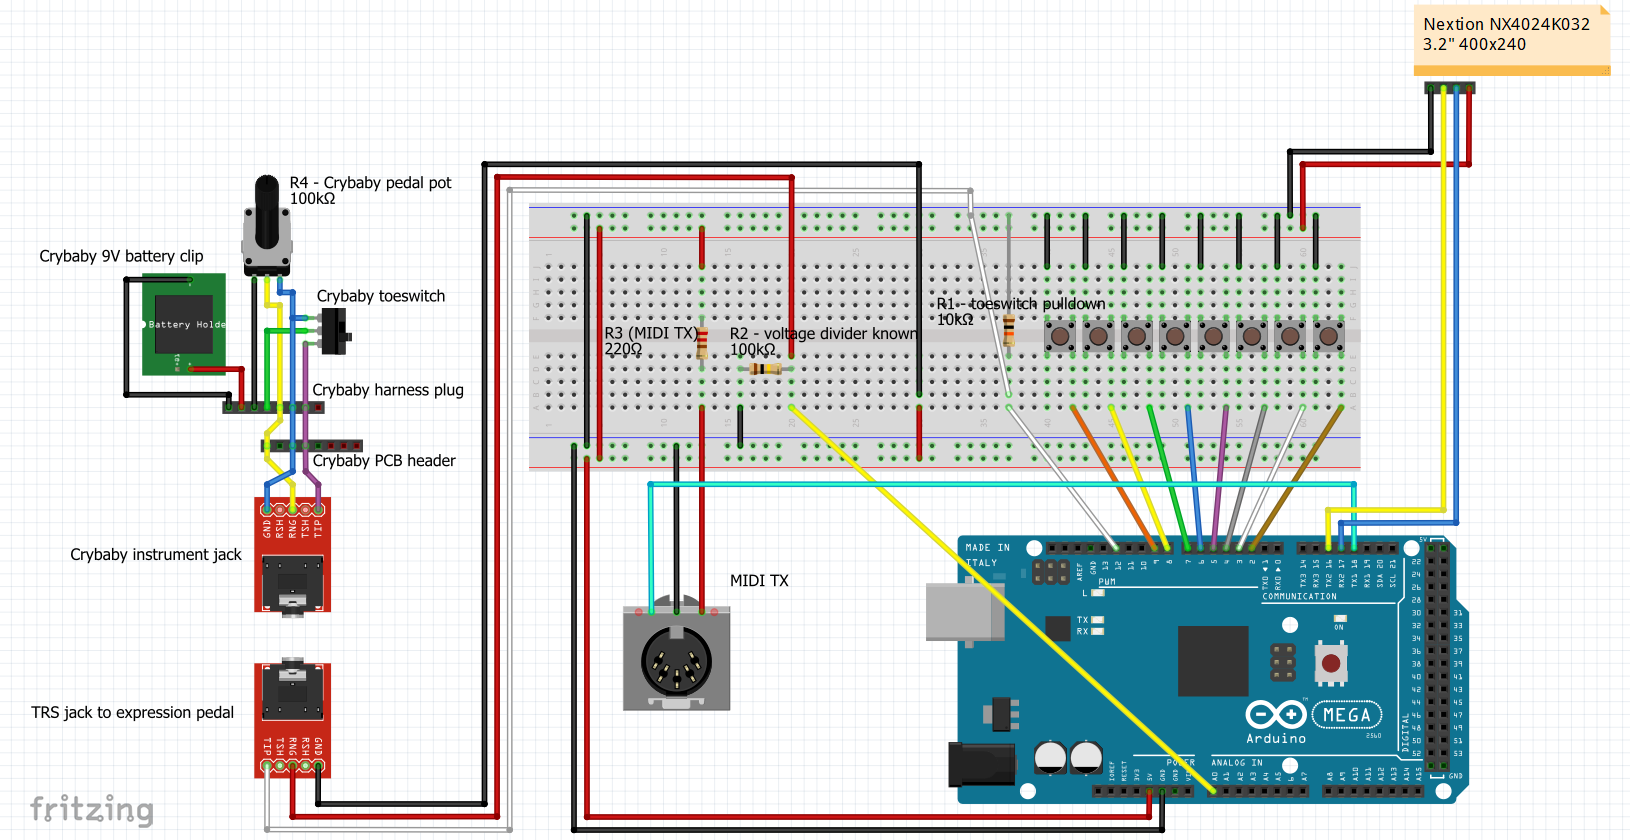
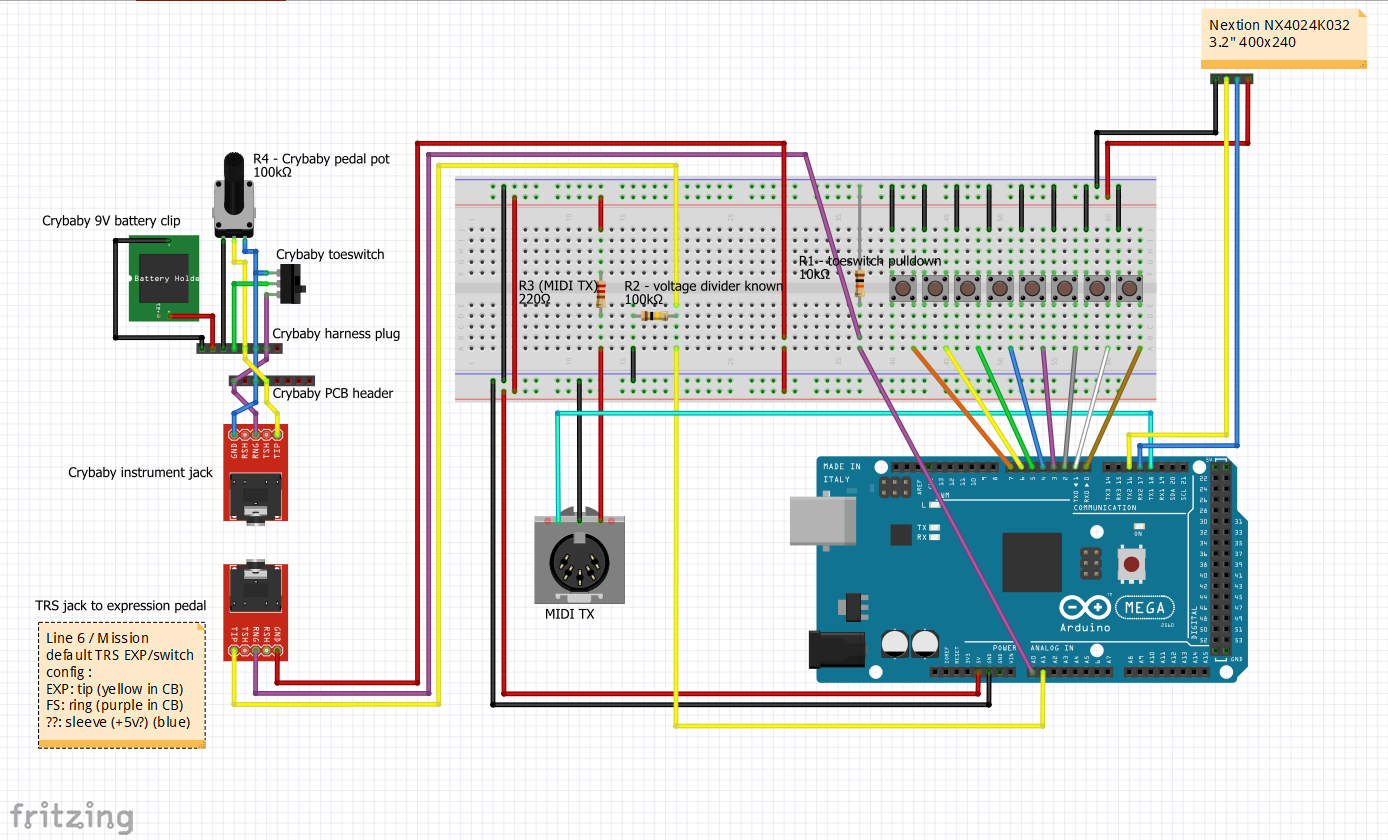
added provisional arduino shield schematic and switched TRS wiring to match Line6/Mission pedal pinout

diff --git a/README.md b/README.md
@@ -20,6 +20,7 @@ At the moment the only touchscreen functionality is to cycle between preset page
 ## Still to do:
 
 - switch preset page from footswitches
+- toggle mode
 - Programming screen on nextion & associated code on arduino
 - Ability to save/load custom programs to/from eeprom
 - power capacitor needed for nextion screen?
